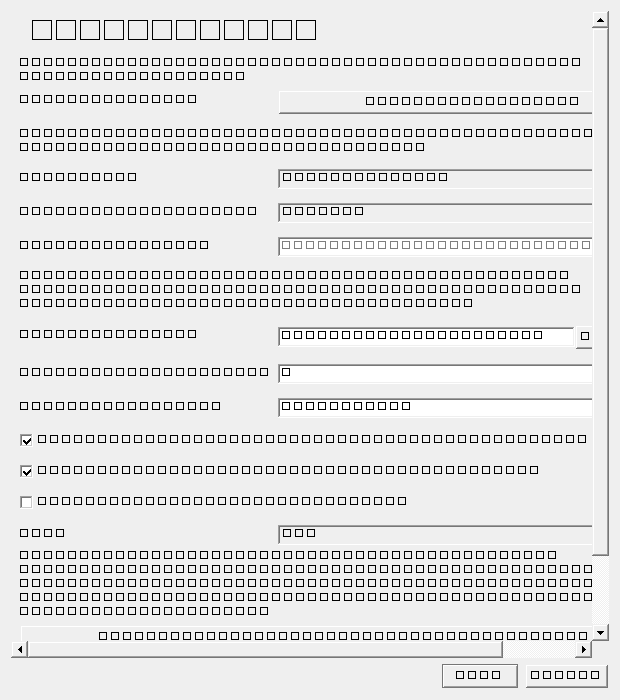
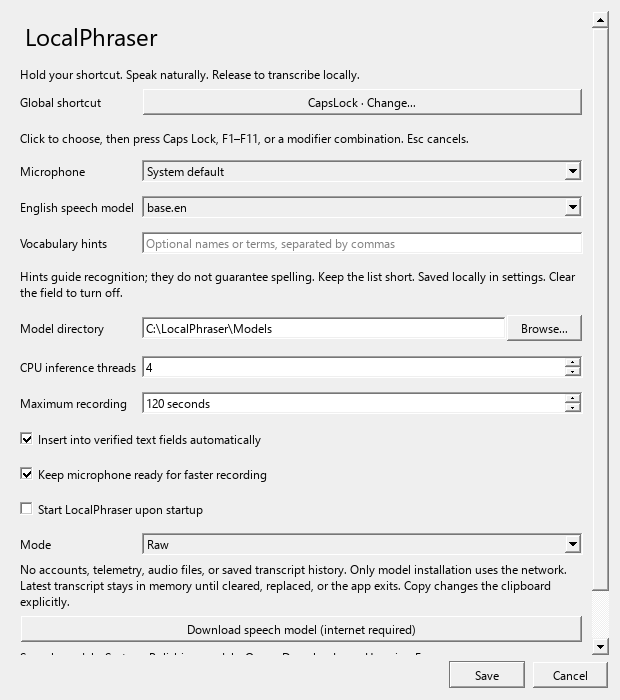
Record installer acceptance and refresh Settings screenshots

diff --git a/docs/testing.md b/docs/testing.md
@@ -271,3 +271,27 @@ runner build is useful integration evidence but cannot replace microphone, consu
 startup, selection/focus, clipboard, multi-monitor, driver or sustained shutdown acceptance.
 Public binary distribution remains gated on the release checklist, exact license/source
 audit and installer/signing decision. The manual preview workflow's upload defaults off.
+
+
+## Per-user installer preview (2026-10-29)
+
+Settings and product guidance now say **Start LocalPhraser upon startup**. The stored
+`start_at_login` key is unchanged for existing configurations. Startup remains opt-in.
+Updated Settings screenshots use an explicit system font and were visually reviewed.
+
+Local validation: 161 tests passed, one optional local-model test skipped; Ruff check/format
+and mypy passed. The rebuilt `dist/installer-preview/LocalPhraser/LocalPhraser.exe` passed
+its owned GUI smoke check with microphone preparation disabled. Its portable ZIP passed
+packaging integrity checks and has a SHA-256 sidecar. No user startup entry was enabled.
+
+The Inno Setup source uses a per-user install, optional desktop shortcut and optional launch.
+Uninstall preserves application data and removes only prefixed startup values pointing to
+its own executable. A disposable-runner check covers install, launch, reinstall, uninstall,
+Start menu cleanup, data preservation and preservation of other startup entries. Interactive
+wizard and running-app upgrade behavior still need consumer-machine acceptance testing.
+
+
+[Windows preview run 40879826951](https://github.com/RobertBacke/LocalPhraser/actions/runs/40879826951)
+passed the full workflow for source commit `29f2ea3`, including real installer compilation
+and install/launch/reinstall/uninstall checks. Artifact upload was disabled. This runner is
+Windows Server; passing here does not establish Windows 10/11 consumer acceptance.
